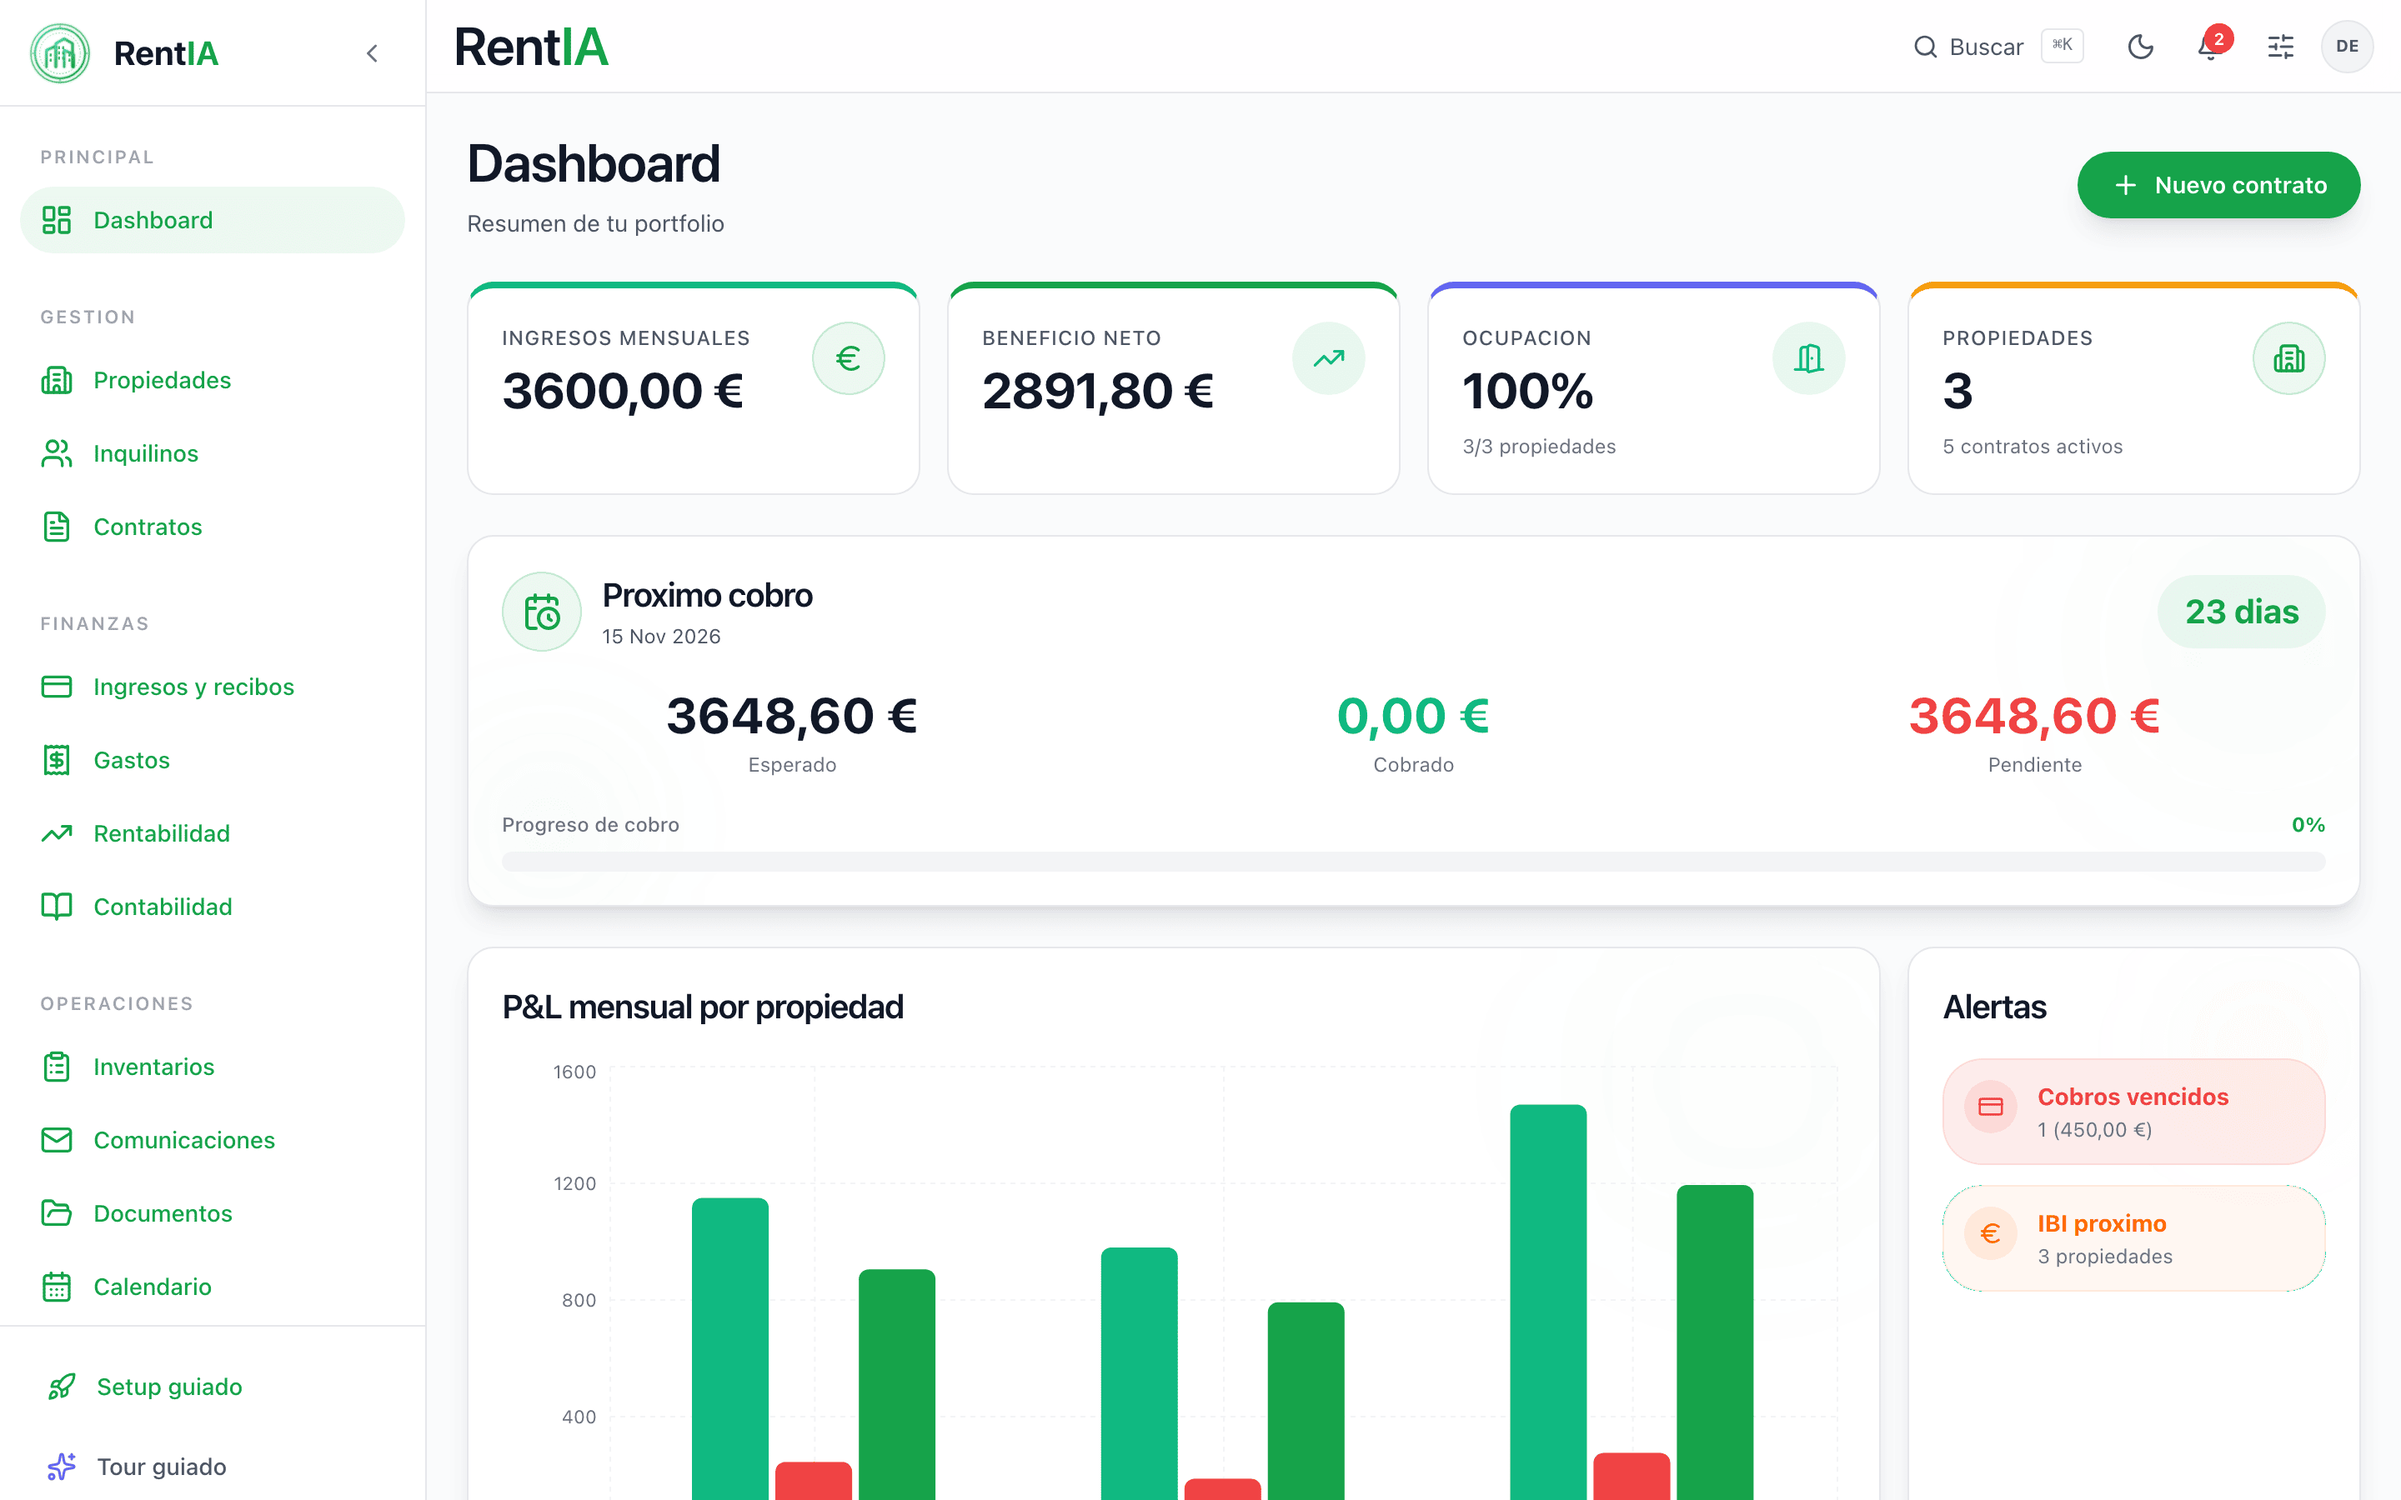
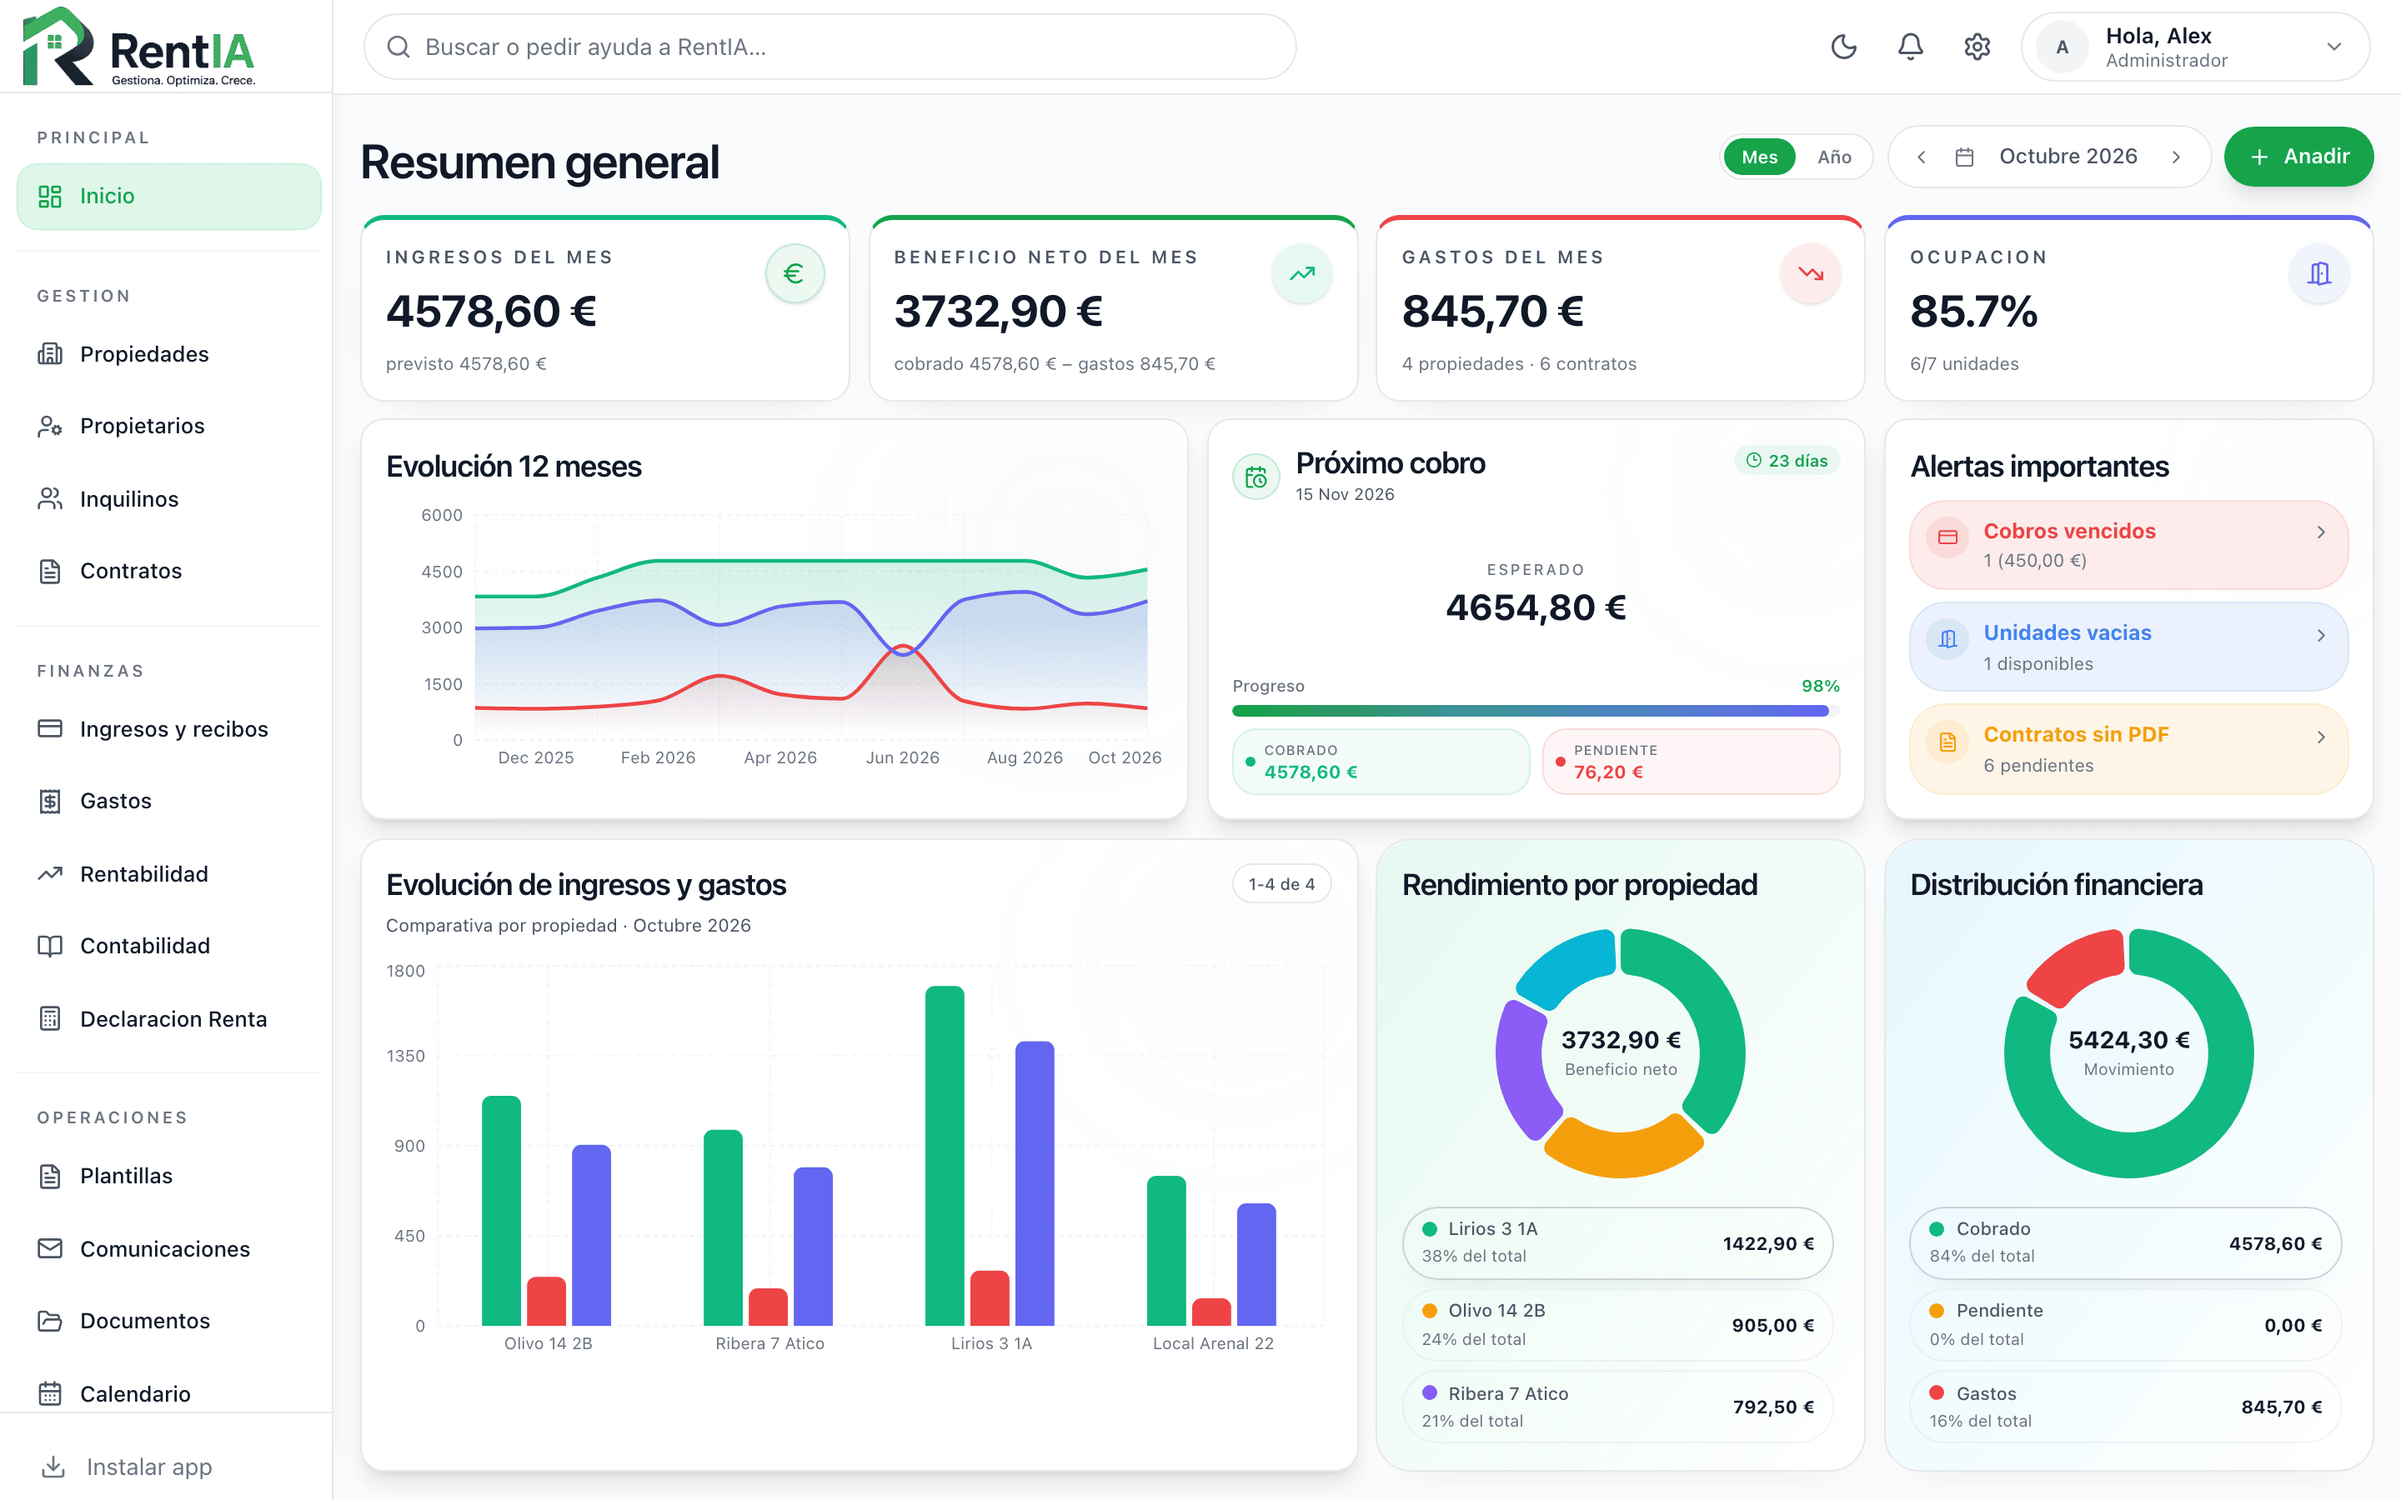
Retake screenshots and walkthrough from the current production version; update captions and feature list

diff --git a/README.md b/README.md
@@ -29,9 +29,9 @@
 </p>
 
 > This repository is a case study. The source code is private; what is here is a description of
-> the product and its engineering, with screenshots taken from a local demo build seeded with
-> synthetic data. Every name, address, ID and amount in the images is invented. The app's UI is in
-> Spanish because its users are.
+> the product and its engineering, with screenshots of the current production version running
+> locally on synthetic data. Every name, address, ID and amount in the images is invented. The app's
+> UI is in Spanish because its users are.
 
 ---
 
@@ -63,8 +63,9 @@ place and derives what can be derived instead of asking for it twice.
 Everything below exists in the production codebase.
 
 **Portfolio and leases**
-- Properties as buildings, flats, rooms, commercial units and storage units, with multiple owners
-  and ownership percentages.
+- Properties as whole flats, flats let by the room, holiday lets, commercial units and storage
+  units, with an owners view: multiple owners per property, ownership percentages and per-owner
+  yearly income.
 - Tenants with co-tenants and guarantors. ID cards (DNI/NIE) are read by OCR to prefill the form.
 - Contract generation from Word templates per contract type (whole flat or room), rendered to PDF,
   with annexes such as house rules for shared flats.
@@ -104,13 +105,15 @@ Everything below exists in the production codebase.
 
 | | |
 |---|---|
-| ![Dashboard](docs/screenshots/dashboard.png) **Dashboard.** Monthly income, net profit, occupancy, next collection and alerts. | ![Properties](docs/screenshots/properties.png) **Properties.** Flats, rooms, commercial units and storage. |
-| ![Contracts](docs/screenshots/contracts.png) **Contracts.** Numbered leases with PDF, deposit and the rent-update action when the anniversary is near. | ![Income and receipts](docs/screenshots/payments.png) **Income and receipts.** Water passed on to the tenant shows up as `+agua` on the receipt it belongs to. |
-| ![Expenses](docs/screenshots/expenses.png) **Expenses.** Invoice upload with OCR, category, and whether and when the tenant is charged. | ![Profitability](docs/screenshots/profitability.png) **Profitability.** Yield per property and the real month-by-month view. |
-| ![Accounting](docs/screenshots/accounting.png) **Accounting.** Income, deductible expenses and taxable base for the year. | ![Tour](docs/screenshots/tour.gif) **Walkthrough.** |
+| ![Dashboard](docs/screenshots/dashboard.png) **Dashboard.** Month or year view: income, net profit, expenses, occupancy, next collection, alerts and per-property performance. | ![Properties](docs/screenshots/properties.png) **Properties.** Whole flats, flats let by the room, holiday lets, commercial units and storage. |
+| ![Flat let by the room](docs/screenshots/property-rooms.png) **Flat let by the room.** Each room with its rent and status, and the flat's income, expenses and occupancy. | ![Contract](docs/screenshots/contract-detail.png) **Contract.** Lease terms next to the PDF generated from the template, with signing, termination and regeneration actions. |
+| ![Income and receipts](docs/screenshots/payments.png) **Income and receipts.** Rent and one-off income in one ledger; bills passed on to the tenant show up as `+luz` or `+agua` on the receipt they belong to. | ![Expenses](docs/screenshots/expenses.png) **Expenses.** Granular categories, PDF upload and camera scan, and whether and in which month the tenant is charged. |
+| ![IRPF return](docs/screenshots/irpf.png) **Income tax return.** Per-property Modelo 100 breakdown with AEAT box numbers, depreciation, reductions and a data-completeness check, with live IRAV and IPC. | ![Calendar](docs/screenshots/calendar.png) **Calendar.** Collections, lease starts and ends, with an ICS feed for Google or Apple Calendar. |
 
-The demo build used for these screenshots does not include every production module: the IRPF
-return, contract signing, Verifactu, document OCR and chat are described above but not shown.
+![Walkthrough](docs/screenshots/tour.gif)
+
+Not shown: document OCR and chat, which need the local models, and Verifactu, which is disabled
+by default.
 
 ## Architecture
 
